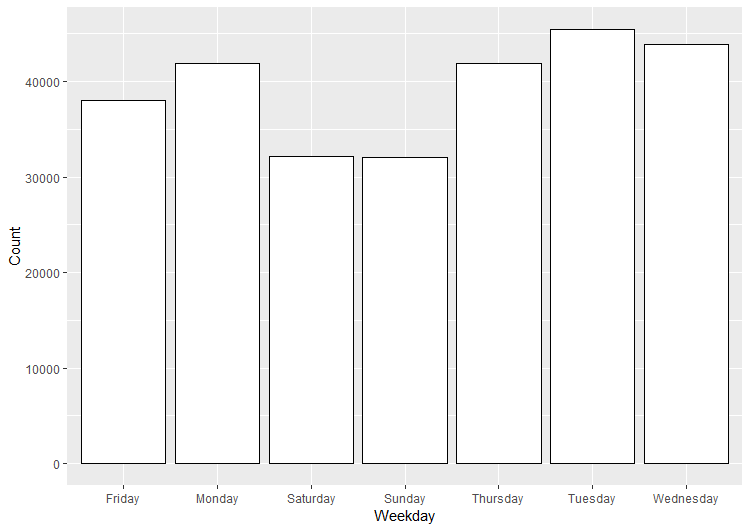
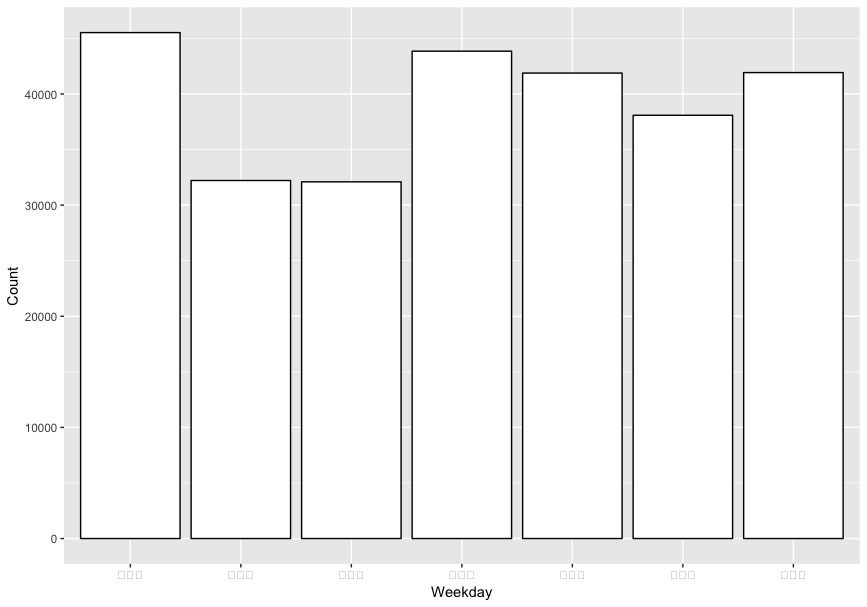
// edit 2019-03-08-kaggle-airbnb

Changed region(s): [[0.0, 0.0, 1.0, 0.9944], [0.644, 0.0904, 0.6747, 0.1205]]

diff --git a/_posts/2019-03-08-kaggle-airbnb.md b/_posts/2019-03-08-kaggle-airbnb.md
@@ -7,13 +7,15 @@ keywords: data visualization, data-analysis
 relatedwords: kaggle
 ---
 
+### Background
+<hr/>
+
 [数据](\assets\2019-03-08-kaggle-airbnb\data.zip)来源: [Airbnb](https://www.kaggle.com/c/airbnb-recruiting-new-user-bookings)
 
 情景：预测新用户的预定目的地，给与新用户合适的消息推送。
 
+### Data Exploration
 <hr/>
-
-#### Data Exploration
 
 通常在开始一项数据分析项目之前，我会思考：
 <blockquote>
@@ -24,9 +26,7 @@ relatedwords: kaggle
 * 这份数据是否需要增加或者删除部分数据使其更符合现实？
 </blockquote>
 
-<hr/>
-
-* Exam datasets
+#### Exam datasets
 {% highlight r %} 
 #train dataset
 data_train_user <- read.csv(file = "C:\\Users\\yuki\\Desktop\\airbnb-recruiting-new-user-bookings\\train_users_2.csv")
@@ -38,7 +38,7 @@ head(data_test_user)
 dim(data_test_user)
 {% endhighlight %}
 
-* Rearrange datasets
+#### Rearrange datasets
 {% highlight r %} 
 # Merge train and test dataset
 data_test_user$country_destination <- NA
@@ -52,16 +52,16 @@ data_all_user <- data_all_user[,order(names(data_all_user))]
 head(data_all_user)
 {% endhighlight %}
 
-* Missing Data
+#### Missing Data
 
-  * 在 R 中缺失值以 NA 表示，但是可以看见 column(gender) 中有 “-unknown-” 的表示，所以要将其重编码为缺失值
+* 在 R 中缺失值以 NA 表示，但是可以看见 column(gender) 中有 “-unknown-” 的表示，所以要将其重编码为缺失值
 
 {% highlight r %} 
 #Replace missing value
 data_all_user$gender[data_all_user$gender == "-unknown-"] <- NA
 {% endhighlight %}
 
-  * 通过缺失值检查，可以发现年龄与性别的缺失值比例很高
+* 通过缺失值检查，可以发现年龄与性别的缺失值比例很高
 
 {% highlight r %} 
 #Calculate the number of missing data
@@ -69,7 +69,7 @@ data_NA_proportion <- colSums(is.na(data_all_user)) / dim(data_all_user)[1]
 print(data_NA_proportion)
 {% endhighlight %}
 
-  * 检查年龄变量，我们可以发现某一部分用户的年龄是不真实的.当用户年龄大于100时，50%以上的用户年龄大于2014，基本不可靠；当用户年龄小于18时，50%以上的用户年龄大于16，勉强符合实际。因此需要对不可靠的年龄数据进行删除。
+* 检查年龄变量，我们可以发现某一部分用户的年龄是不真实的.当用户年龄大于100时，50%以上的用户年龄大于2014，基本不可靠；当用户年龄小于18时，50%以上的用户年龄大于16，勉强符合实际。因此需要对不可靠的年龄数据进行删除。
 
 {% highlight r %} 
 #Replace age>95 && age < 12 by missing value
@@ -78,17 +78,15 @@ data_all_user$age[data_all_user$age < 13] <- NA
 summary(data_all_user$age)
 {% endhighlight %}
 
-<hr/>
 
-#### Data Visulization
+### Data Visulization
+<hr/>
 
 通常，只看数据的均值，中位数，分位数等基础统计量对于进一步了解数据并没有太大的帮助，除非你十分清除你的数据集合。
 
 将数据绘制成可视化图形更有利于我们观察到数据的异常值和错误值。我们可以逐个变量进行探索。
 
-<hr/>
-
-* Gender
+#### Gender
 
 分析可见，不同性别对于选择旅行目的地并没有明显的区别。但是大部分新用户预定的目的地在美国。
 
@@ -102,13 +100,11 @@ p <- ggplot(data=data_all_user, aes(x=gender))
 p +geom_bar(stat = "count", color="black", fill="white") + xlab("Gender") + ylab("Count")
 
 #Gender & Country
-#count_country <- table(data_all_user$gender[,drop=T], data_all_user$country_destination)
-#count_country <- as.data.frame(count_country)
 p <- ggplot(data=na.omit(data_all_user), mapping=aes(x=country_destination, fill=gender), na.rm = TRUE)
 p +geom_bar(stat = "count", position = "dodge") + xlab("Country") + ylab("Count") + theme_bw()
 {% endhighlight %}
 
-* Age
+#### Age
 
 分析可见，出游用户大多集中在20-45岁, 而且各年龄段的用户选择旅游目的地的差异并不大。
 ![Age](\assets\2019-03-08-kaggle-airbnb\Age.png)
@@ -130,7 +126,7 @@ p +geom_bar(stat = "count", position = "dodge") + xlab("Country") + ylab("Count"
   scale_fill_discrete(name="Age", breaks=c("1", "2", "3", "4", "5"), labels=c("0-20", "20-40", "40-60", "60-80", "80-100"))
 {% endhighlight %}
 
-* Date
+#### Date
 
 分析用户创建账户的时间，可发现在2012-2014年间Airbnb的用户快速的增长而且用户创建账户的时间以周中为主（即周二，周三，周四）。
 ![Year](\assets\2019-03-08-kaggle-airbnb\Year.png)
@@ -147,7 +143,7 @@ p <- ggplot(data=data_all_user, mapping=aes(x=date_account_created_weekday))
 p + geom_bar(stat="count", color="black", fill="white") + xlab("Weekday") + ylab("Count")
 {% endhighlight %}
 
-* Platform
+#### Platform
 
 目前使用 Web 端下订单的用户还是占大多数，而且使用 Web 端的用户大部分不会在第一次就预定旅行。
 
@@ -159,5 +155,10 @@ p <- ggplot(data=na.omit(data_all_user), mapping=aes(x=signup_app, fill=country_
 p +geom_bar(stat = "count") + xlab("Platform") + ylab("Count") + theme_bw()
 {% endhighlight %}
 
+#### To be Continue...
 
 
+#### Sample Code
+<hr/>
+
+[download here](\assets\2019-02-28-word-cloud-4\AirbnbNewUserBooking.zip)
